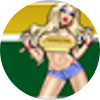
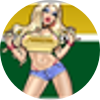
Default Way More Funner to the pin-up era and centre her
Seed franchise 0022 to 2006 rather than 2005 — after the split the pin-up
era is also the longer of the two, six seasons to one, so the tenure rule
and the commissioner's pick agree.

Recentre the crest from x 215 to x 223 so the figure sits on the circle's
vertical axis instead of just left of it.

Claude-Session: https://claude.ai/code/session_01S7VtEPnnko7p1nyorYHP6s

diff --git a/src/data/afl-fantasy/throwback-config.ts b/src/data/afl-fantasy/throwback-config.ts
@@ -112,7 +112,7 @@ export const AFL_DEFAULT_THROWBACK_ERA: Record<string, number> = {
   '0019': 2011, // Badd Boys → Cliffside Killer Clowns — 4 seasons
   '0020': 2008, // The Boondock Saints → The Boondock Saints (The brothers) — 8 seasons
   '0021': 2010, // Chatmaster → Chatmaster (The AIM lockup) — 15 seasons
-  '0022': 2005, // Balls Deep → Way More Funner — 7 seasons
+  '0022': 2006, // Balls Deep → Way More Funner (The pin-up) — 6 seasons
   '0023': 2019, // The Show → No Frills (The clean wordmark) — commissioner pick
                 //   over the tenure rule, which would say 2005 (14 seasons).
   '0024': 2019, // No Soup For You → No Soup For You (The Soup Nazi) — 6 seasons
